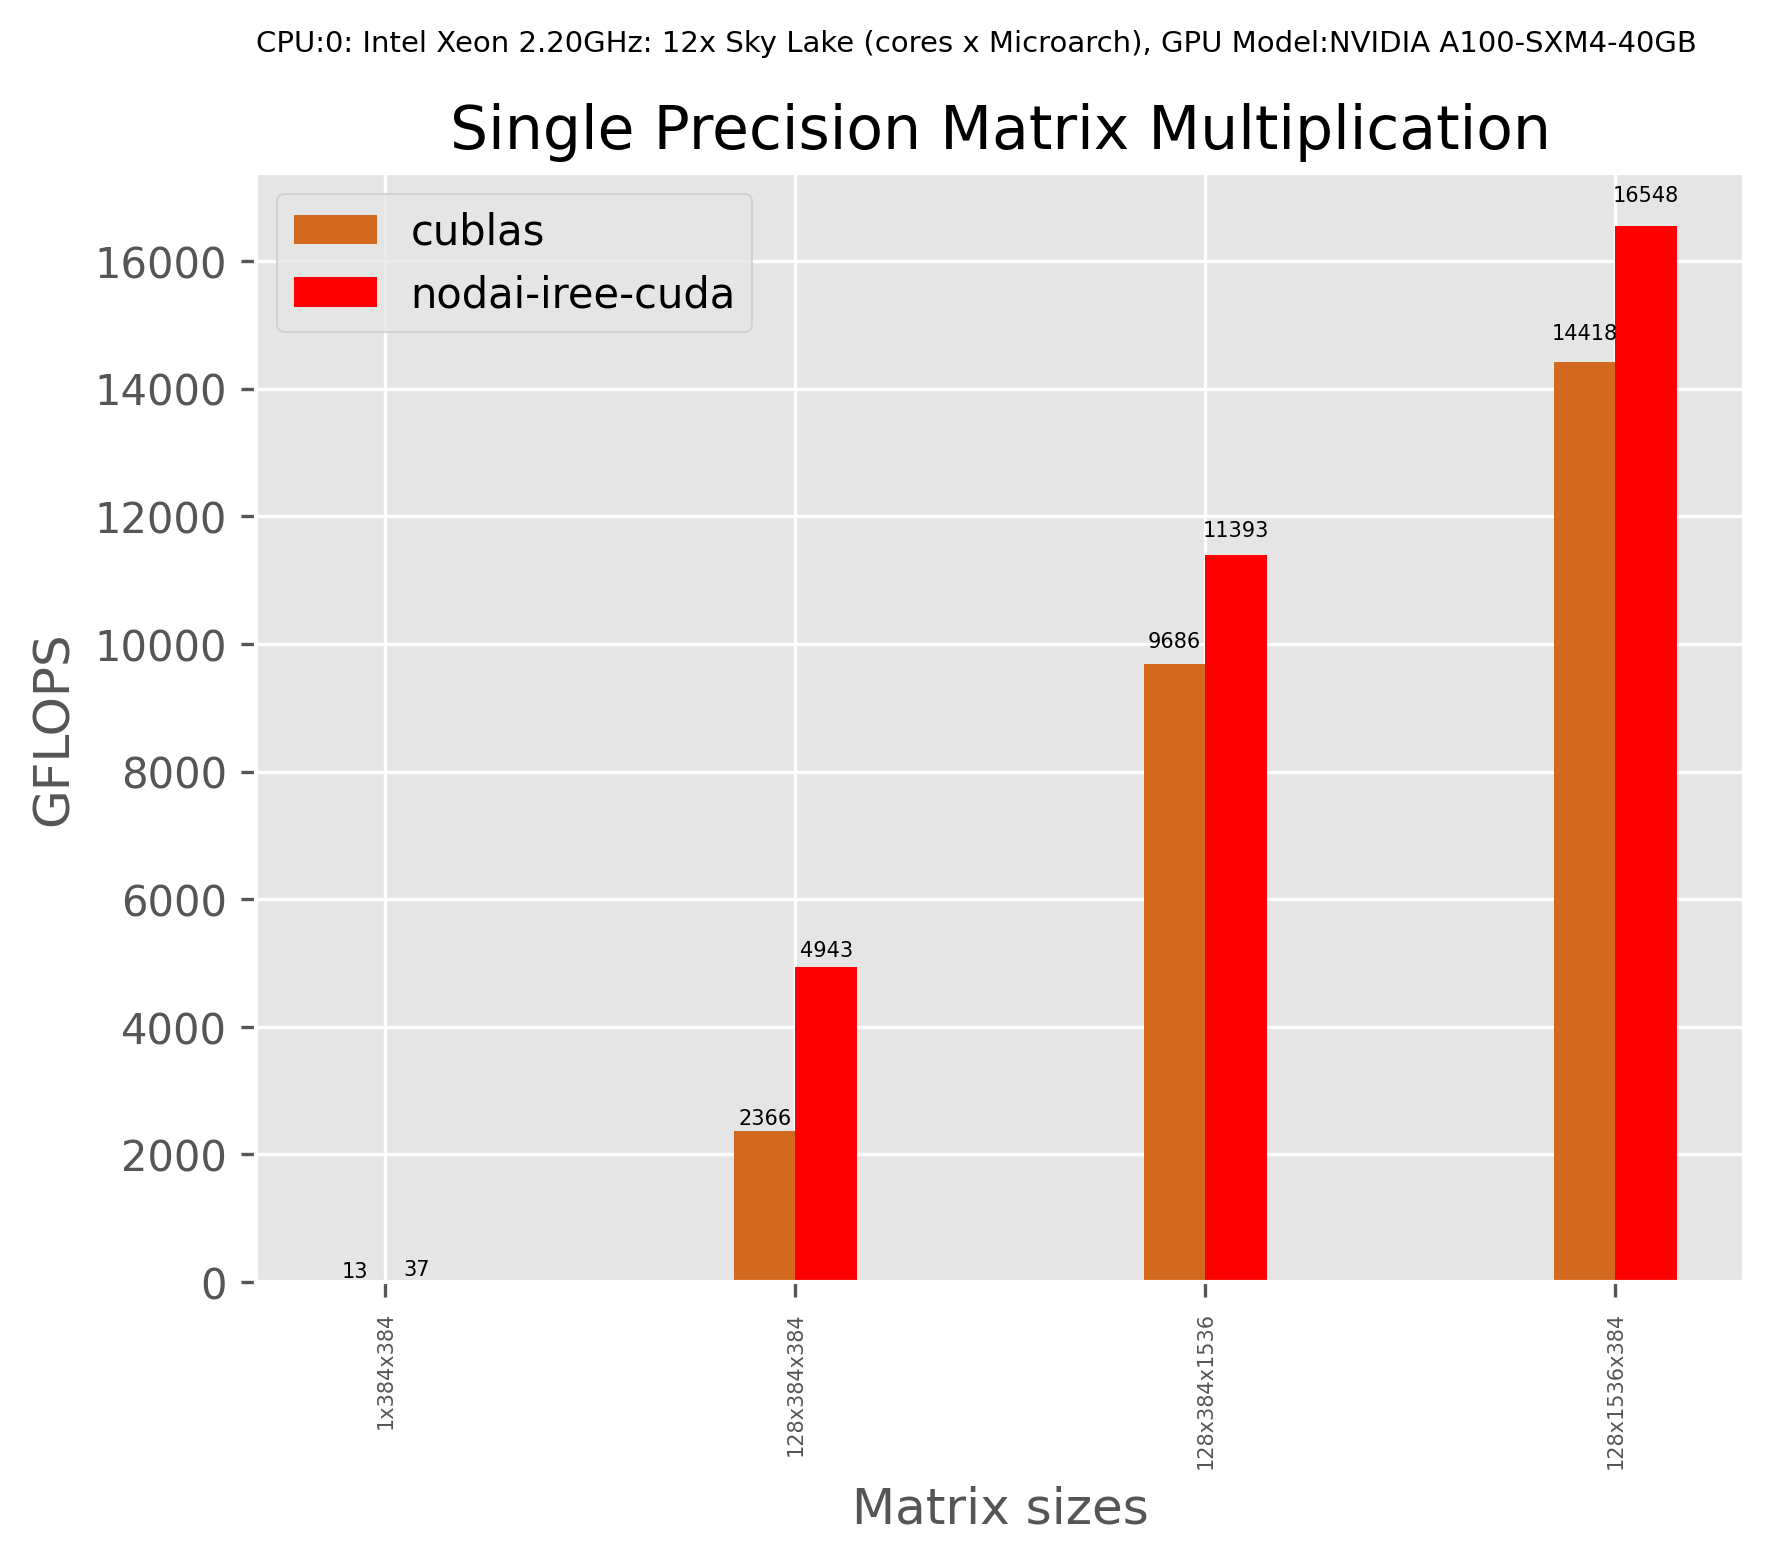
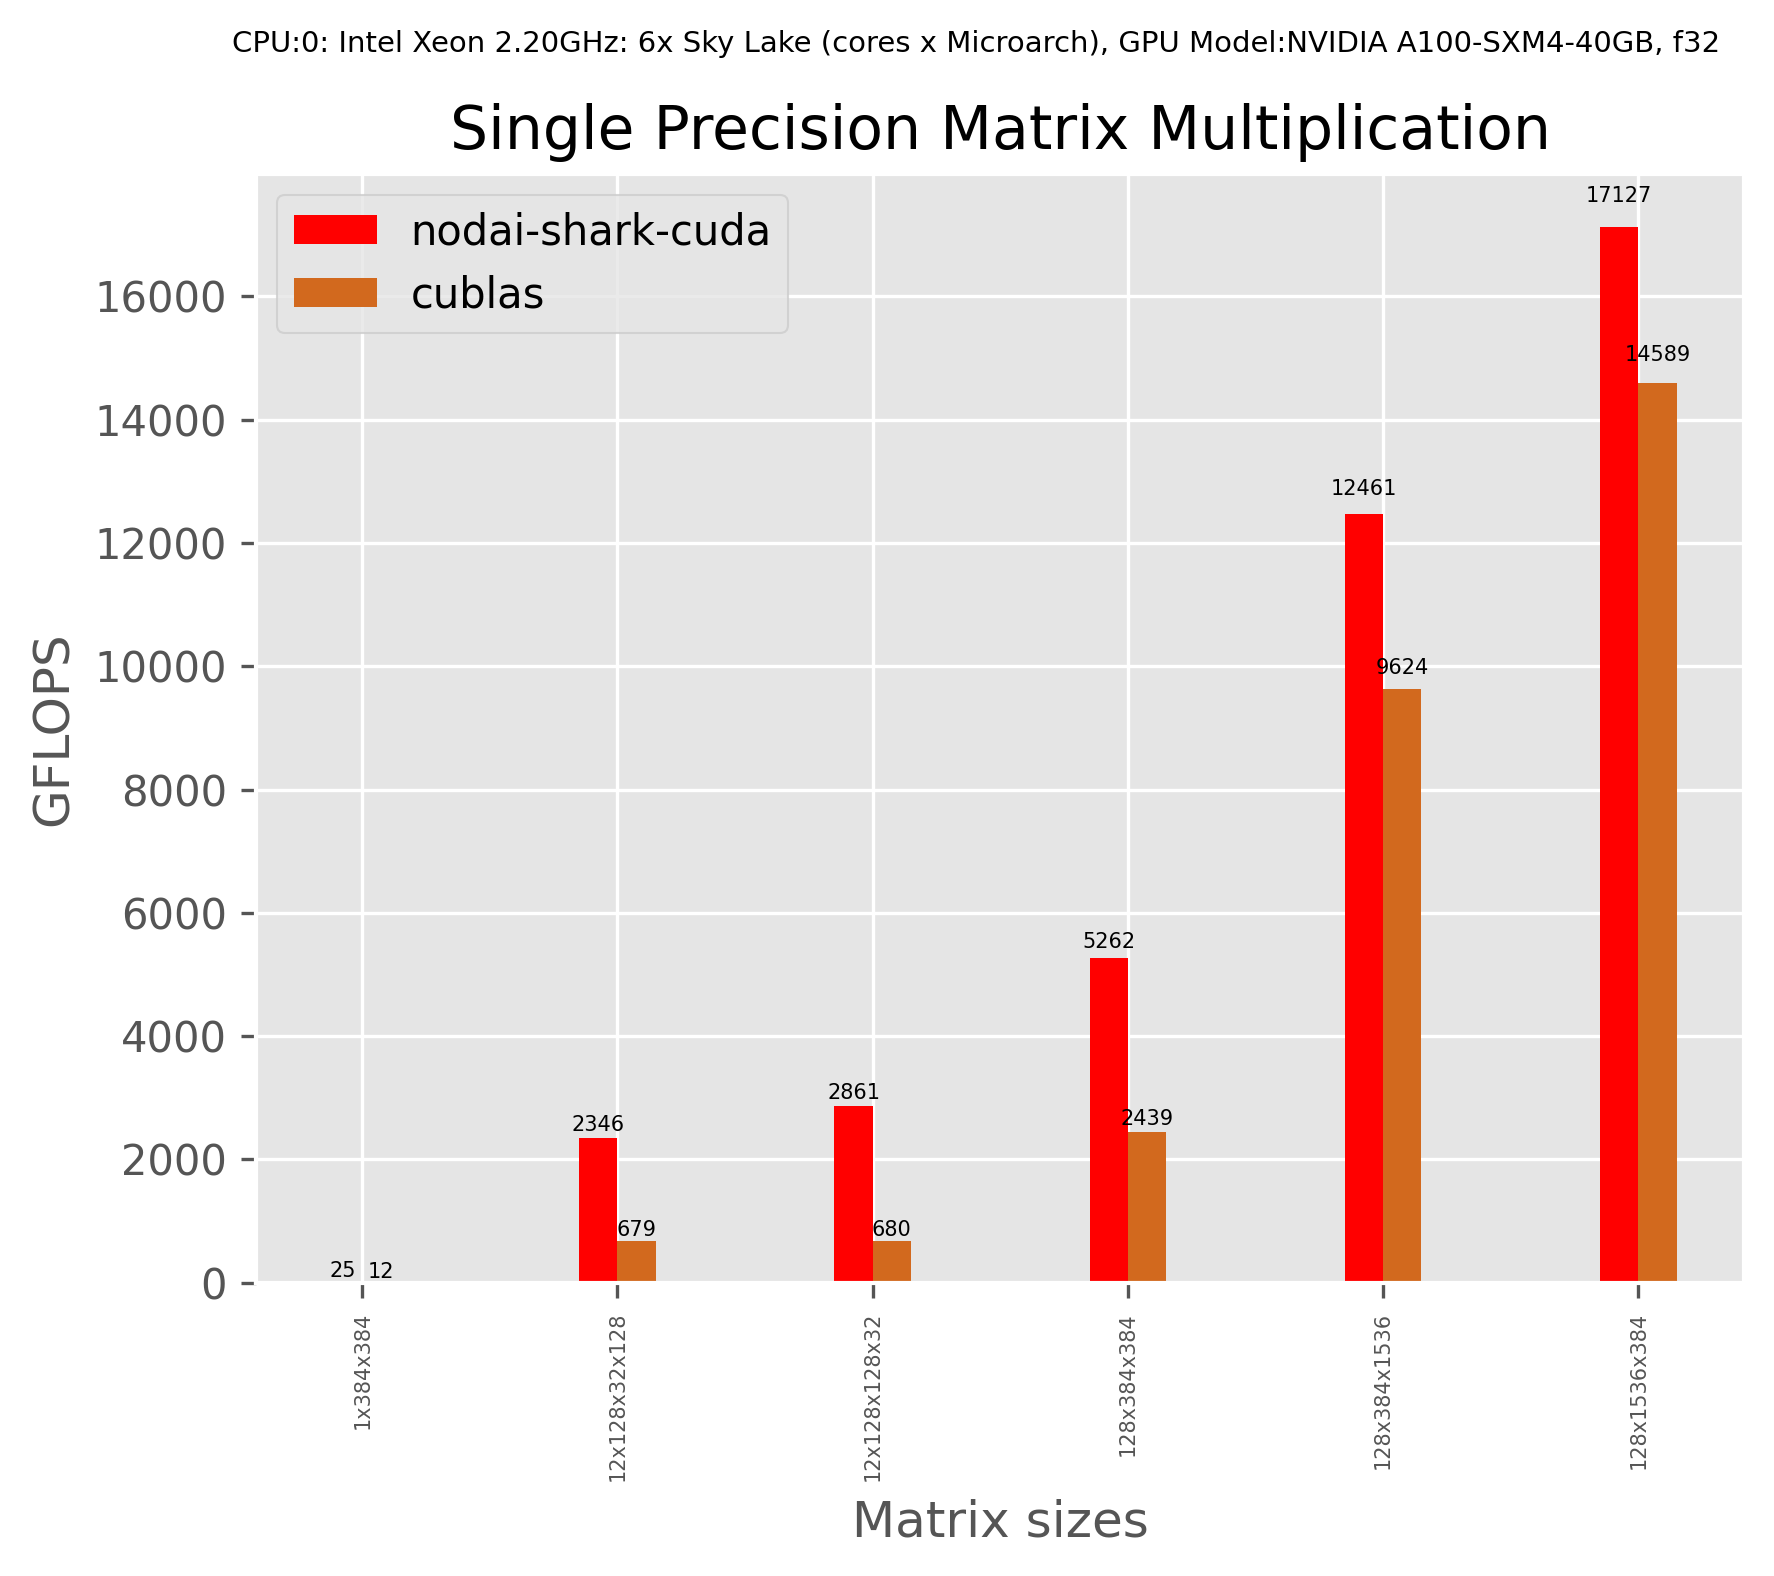
Add nodai_shark_cuda config file to official results
One can run mmperf.py and test the performance of nodai_shark_cuda on Nvidia A100 by:
python3 mmperf.py ./build/matmul/ results -nodai_shark_cuda -nodai_shark_configs=official_results/best_configs_minilm/

diff --git a/nodai_config_parser.py b/nodai_config_parser.py
@@ -39,7 +39,7 @@ class IREEExecutionHandler(object):
         subprocess.run(cmd, shell=True, check=True, cwd=self.mlir_objs_dir)
         return abspath(f'{self.mlir_objs_dir}/matmul_{matmul_size_str}-tiled.mlir')
 
-    def translate_to_vm_bytecode(self, mlir_file, filename, reduction=None, swizzle=None, depth=None):
+    def translate_to_vm_bytecode(self, mlir_file, filename, swizzle=None):
         if self.compile_args.target == "iree" or self.compile_args.target == "shark":
             cmd = f'{self.iree_translate} ' \
                   f'-iree-input-type=mhlo ' \
@@ -61,16 +61,11 @@ class IREEExecutionHandler(object):
                   f'-iree-hal-target-backends=cuda ' \
                   f'-iree-hal-cuda-llvm-target-arch=sm_80 ' \
                   f'-iree-hal-cuda-disable-loop-nounroll-wa ' \
-                  f'-iree-flow-fuse-reduction-broadcast-elementwise ' \
                   f'-iree-hal-benchmark-dispatch-repeat-count=100 ' \
                   f'{mlir_file} -o matmul_{str(filename)}.vmfb ' \
                   f'-iree-llvm-embedded-linker-path=lld '
-            if reduction != None:
-                cmd += f'-iree-flow-split-matmul-reduction={reduction} '
             if swizzle != None:
                 cmd += f'-iree-codegen-log-swizzle-tile={swizzle} '
-            if depth != None:
-                cmd += f'-iree-codegen-cuda-pipeline-depth={depth} '
         subprocess.run(cmd, shell=True, check=True, cwd=self.bin_dir)
         return abspath(f'{self.bin_dir}/matmul_{str(filename)}.vmfb')
 
@@ -197,11 +192,13 @@ class IREEExecutionHandler(object):
                   f'matmul_{filename}.a ' \
                   f'{iree}/base/libiree_base_base.a ' \
                   f'{iree}/hal/libiree_hal_hal.a ' \
-                  f'{iree}/hal/cuda/registration/libiree_hal_cuda_registration_registration.a ' \
+                  f'{iree}/hal/drivers/cuda/registration/libiree_hal_drivers_cuda_registration_registration.a ' \
                   f'{iree}/modules/hal/libiree_modules_hal_hal.a ' \
+                  f'{iree}/modules/hal/libiree_modules_hal_types.a ' \
+                  f'{iree}/modules/hal/utils/libiree_modules_hal_utils_buffer_diagnostics.a ' \
                   f'{iree}/vm/libiree_vm_bytecode_module.a ' \
                   f'{iree}/base/internal/libiree_base_internal_dynamic_library.a ' \
-                  f'{iree}/base/internal/libiree_base_internal_file_path.a ' \
+                  f'{iree}/base/internal/libiree_base_internal_path.a ' \
                   f'{iree}/modules/hal/libiree_modules_hal_hal.a ' \
                   f'{iree}/base/internal/libiree_base_internal_arena.a ' \
                   f'{iree}/base/internal/libiree_base_internal_fpu_state.a ' \
@@ -213,8 +210,10 @@ class IREEExecutionHandler(object):
                   f'{iree}/base/internal/libiree_base_internal_atomic_slist.a ' \
                   f'{iree}/hal/utils/libiree_hal_utils_buffer_transfer.a ' \
                   f'{iree}/hal/utils/libiree_hal_utils_resource_set.a ' \
-                  f'{iree}/hal/cuda/libiree_hal_cuda_cuda.a ' \
-                  f'{iree}/hal/cuda/libiree_hal_cuda_dynamic_symbols.a ' \
+                  f'{iree}/hal/utils/libiree_hal_utils_deferred_command_buffer.a ' \
+                  f'{iree}/hal/utils/libiree_hal_utils_semaphore_base.a ' \
+                  f'{iree}/hal/drivers/cuda/libiree_hal_drivers_cuda_cuda.a ' \
+                  f'{iree}/hal/drivers/cuda/libiree_hal_drivers_cuda_dynamic_symbols.a ' \
                   f'{iree}/base/internal/libiree_base_internal_threading.a ' \
                   f'{iree}/hal/libiree_hal_hal.a ' \
                   f'{iree}/base/internal/libiree_base_internal_synchronization.a ' \
@@ -224,20 +223,23 @@ class IREEExecutionHandler(object):
                   f'{iree}/base/internal/libiree_base_internal_dynamic_library.a ' \
                   f'{iree}/base/internal/libiree_base_internal_fpu_state.a ' \
                   f'{iree}/base/internal/libiree_base_internal_file_io.a ' \
-                  f'{iree}/base/internal/libiree_base_internal_file_path.a ' \
+                  f'{iree}/base/internal/libiree_base_internal_path.a ' \
                   f'{iree}/base/internal/libiree_base_internal_flags.a ' \
                   f'{iree}/base/internal/libiree_base_internal_synchronization.a ' \
                   f'{iree}/base/internal/libiree_base_internal_threading.a ' \
                   f'{iree}/base/internal/libiree_base_internal_wait_handle.a ' \
                   f'{iree}/base/libiree_base_base.a ' \
-                  f'{iree}/hal/cuda/registration/libiree_hal_cuda_registration_registration.a ' \
+                  f'{iree}/hal/drivers/cuda/registration/libiree_hal_drivers_cuda_registration_registration.a ' \
                   f'{iree}/hal/libiree_hal_hal.a ' \
                   f'{iree}/modules/hal/libiree_modules_hal_hal.a ' \
+                  f'{iree}/modules/hal/libiree_modules_hal_types.a ' \
+                  f'{iree}/modules/hal/utils/libiree_modules_hal_utils_buffer_diagnostics.a ' \
                   f'{iree}/hal/utils/libiree_hal_utils_deferred_command_buffer.a ' \
                   f'{iree}/hal/utils/libiree_hal_utils_buffer_transfer.a ' \
                   f'{iree}/hal/utils/libiree_hal_utils_resource_set.a ' \
-                  f'{iree}/hal/cuda/libiree_hal_cuda_cuda.a ' \
-                  f'{iree}/hal/cuda/libiree_hal_cuda_dynamic_symbols.a ' \
+                  f'{iree}/hal/utils/libiree_hal_utils_semaphore_base.a ' \
+                  f'{iree}/hal/drivers/cuda/libiree_hal_drivers_cuda_cuda.a ' \
+                  f'{iree}/hal/drivers/cuda/libiree_hal_drivers_cuda_dynamic_symbols.a ' \
                   f'{iree}/task/libiree_task_api.a ' \
                   f'{iree}/task/libiree_task_task.a ' \
                   f'{iree}/vm/libiree_vm_bytecode_module.a ' \
@@ -254,13 +256,13 @@ class IREEExecutionHandler(object):
                   f'-lm '
         subprocess.run(cmd, shell=True, check=True, cwd=self.bin_dir)
 
-    def generate_nodai_bins(self, f_path, filename, matmul_size, reduction=None, swizzle=None, depth=None):
+    def generate_nodai_bins(self, f_path, filename, matmul_size, swizzle=None):
         self.create_device()
         matmul_size_str = 'x'.join([str(d) for d in tuple(matmul_size)])
         print(f'Compiling {self.mlir_objs_dir}/matmul_{matmul_size_str}.mlir',
               f'for matmul size {int(matmul_size[0])}x{int(matmul_size[1])}x{int(matmul_size[2])}')
         mlir_tiled_file = self.apply_tiling_pass(f_path, filename, matmul_size_str)
-        vmfb_file = self.translate_to_vm_bytecode(mlir_tiled_file, filename, reduction, swizzle, depth)
+        vmfb_file = self.translate_to_vm_bytecode(mlir_tiled_file, filename, swizzle)
         self.embed_data(vmfb_file, filename)
         self.create_main(filename, matmul_size)
         self.create_matmul_static_library(filename)
@@ -289,14 +291,6 @@ def main(argv):
 
             best_config = data
             try:
-                best_depth = data["options"][0]["pipeline_depth"]
-            except:
-                best_depth = None
-            try:
-                best_reduction = data["options"][0]["split_k"]
-            except:
-                best_reduction = None
-            try:
                 best_swizzle = data["options"][0]["swizzle"]
             except:
                 best_swizzle = None
@@ -304,8 +298,7 @@ def main(argv):
 
             matmul_size_str = 'x'.join([str(d) for d in tuple(matmul_size)])
             file_name = f'nodai-shark-cuda_{matmul_size_str}'
-            exec_handle.generate_nodai_bins(f_path, file_name, matmul_size,
-                        reduction=best_reduction, swizzle=best_swizzle, depth=best_depth)
+            exec_handle.generate_nodai_bins(f_path, file_name, matmul_size, swizzle=best_swizzle)
 
 if __name__ == "__main__":
     sys.exit(main(sys.argv))

diff --git a/mmperf.py b/mmperf.py
@@ -426,14 +426,6 @@ def main(argv):
                     matmul_size = [int(data["m"]), int(data["n"]), int(data["k"])]
 
                 try:
-                    best_depth = data["options"][0]["pipeline_depth"]
-                except:
-                    best_depth = None
-                try:
-                    best_reduction = data["options"][0]["split_k"]
-                except:
-                    best_reduction = None
-                try:
                     best_swizzle = data["options"][0]["swizzle"]
                 except:
                     best_swizzle = None
@@ -441,8 +433,7 @@ def main(argv):
 
                 matmul_size_str = 'x'.join([str(d) for d in tuple(matmul_size)])
                 file_name = f'nodai-shark-cuda_{matmul_size_str}'
-                exec_handle.generate_nodai_bins(f_path, file_name, matmul_size,
-                            reduction=best_reduction, swizzle=best_swizzle, depth=best_depth)
+                exec_handle.generate_nodai_bins(f_path, file_name, matmul_size, swizzle=best_swizzle)
 
     # get only the executables
     bin_paths = [x for x in args.bins.iterdir() if
